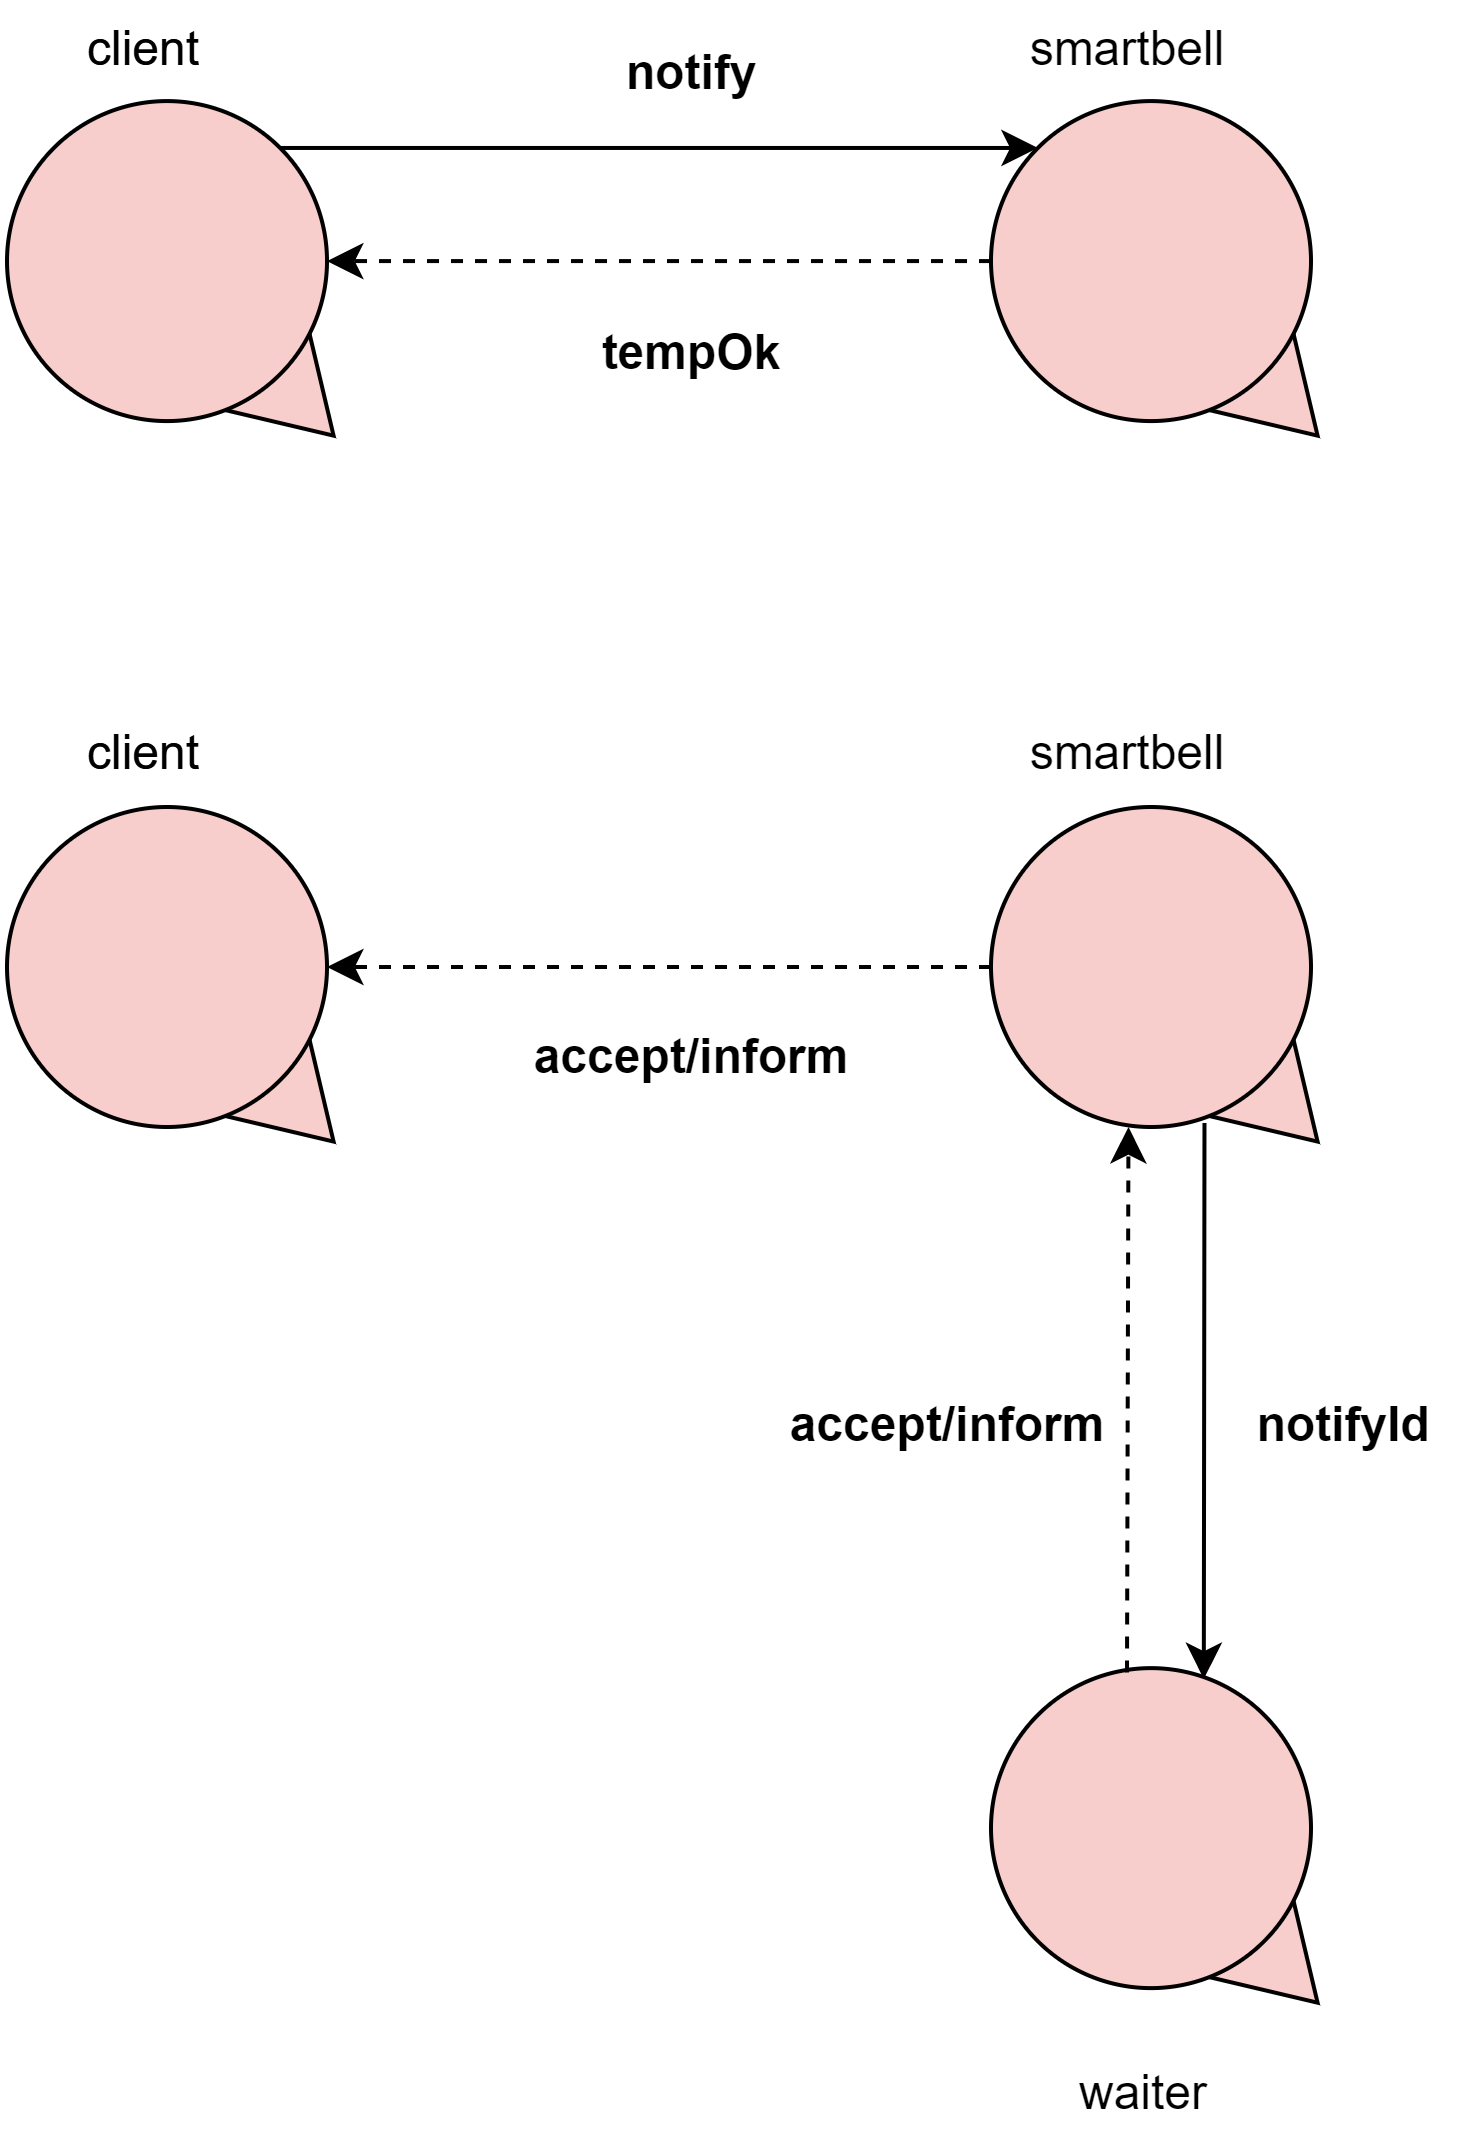
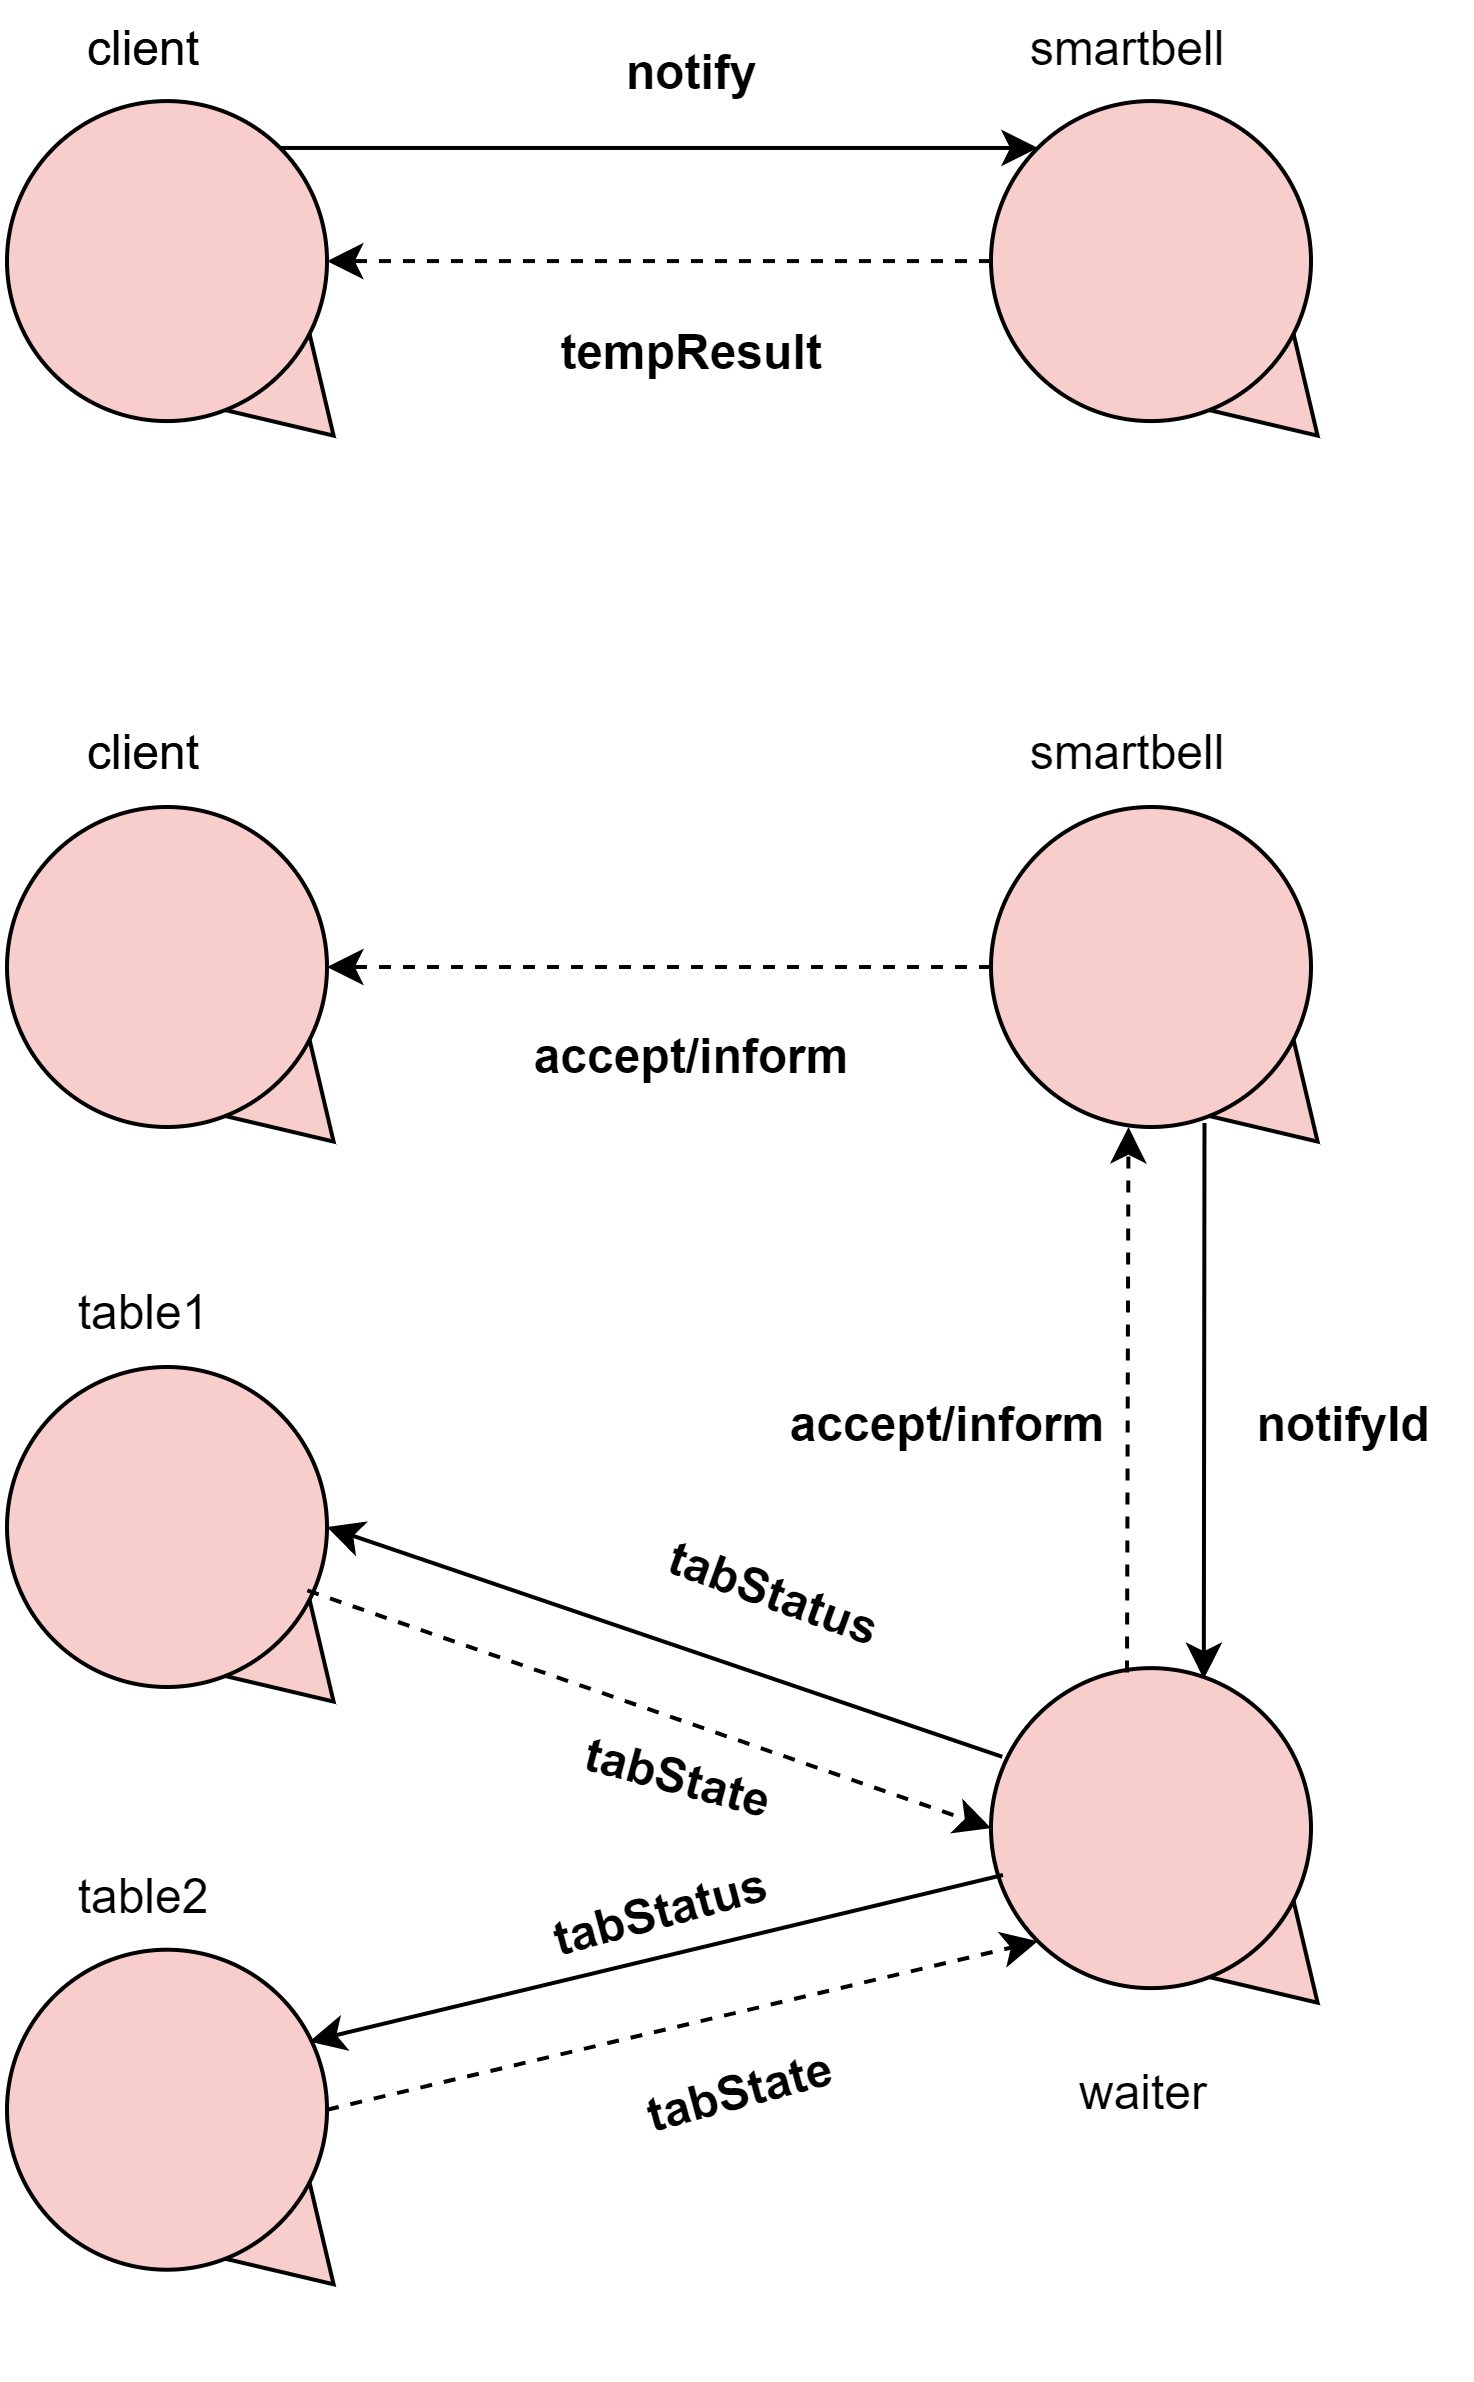
fix documento amalisi.html

diff --git a/Relazioni/analisi.html b/Relazioni/analisi.html
@@ -174,10 +174,10 @@
 
                             Il <bc>client</bc> tramite un messaggio <em>notify</em> comunica allo <bc>smartbell</bc> di voler entrare nella stanza.
                             Lo <bc>smartbell</bc> misura la temperatura del <bc>client</bc>, la quale deve essere inferiore a <tt>37.5°C</tt>. 
-                            Lo <bc>smartbell</bc> risponde (<em>tempOk</em>) al <bc>client</bc> informandolo se la sua temperatura rispetti le disposizioni sanitarie,
+                            Lo <bc>smartbell</bc> risponde (<em>tempResult</em>) al <bc>client</bc> informandolo se la sua temperatura rispetti le disposizioni sanitarie,
                             e quindi sia autorizzato a poter entrare.
                         </br></br>
-                            Lo <bc>smartbell</bc> informa il <bc>waiter</bc> della presenza di un nuovo <bc>client</bc> inviando il <em>clientidentifier</em> appena generato.
+                            Lo <bc>smartbell</bc> informa il <bc>waiter</bc> della presenza di un nuovo <bc>client</bc> inviando il <em>clientidentifier</em> appena generato. Il <bc>waiter</bc> chiede ai <bc>table</bc> il loro stato. 
                             Il <bc>waiter</bc> risponde allo <bc>smartbell</bc> se il nuovo <bc>client</bc> possa o meno entrare in sala. Tale risposta viene propagata al <bc>client</bc>,
                             il quale in caso affermativo aspetta il <bc>waiter</bc> per essere accompagnato ad un <bc>table</bc>, mentre in caso negativo si mette in attesa.
                         </td>
